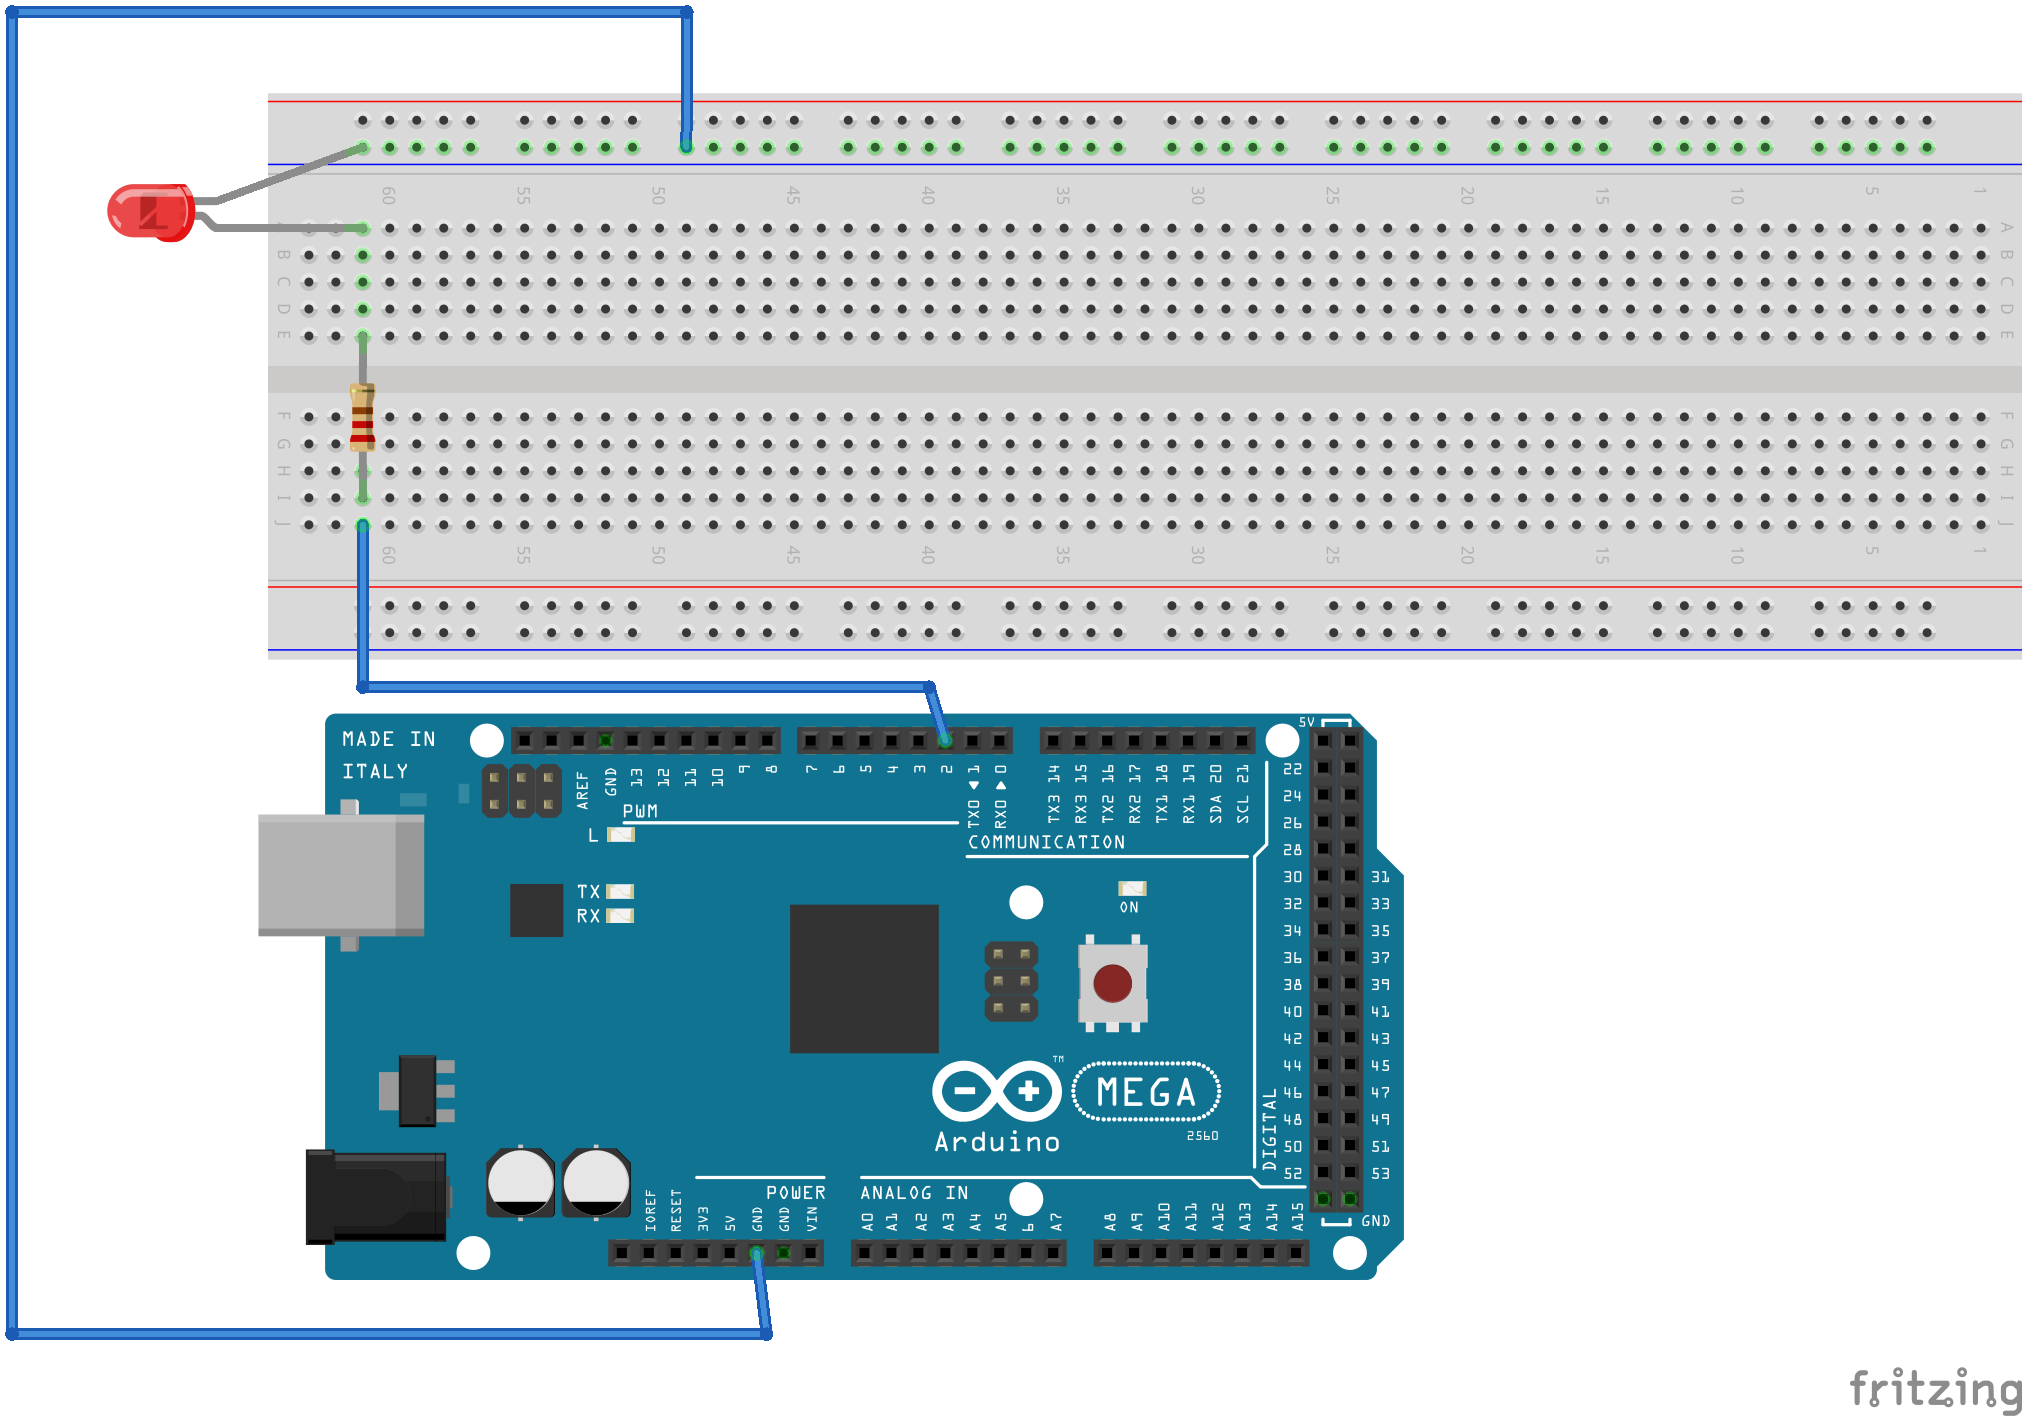
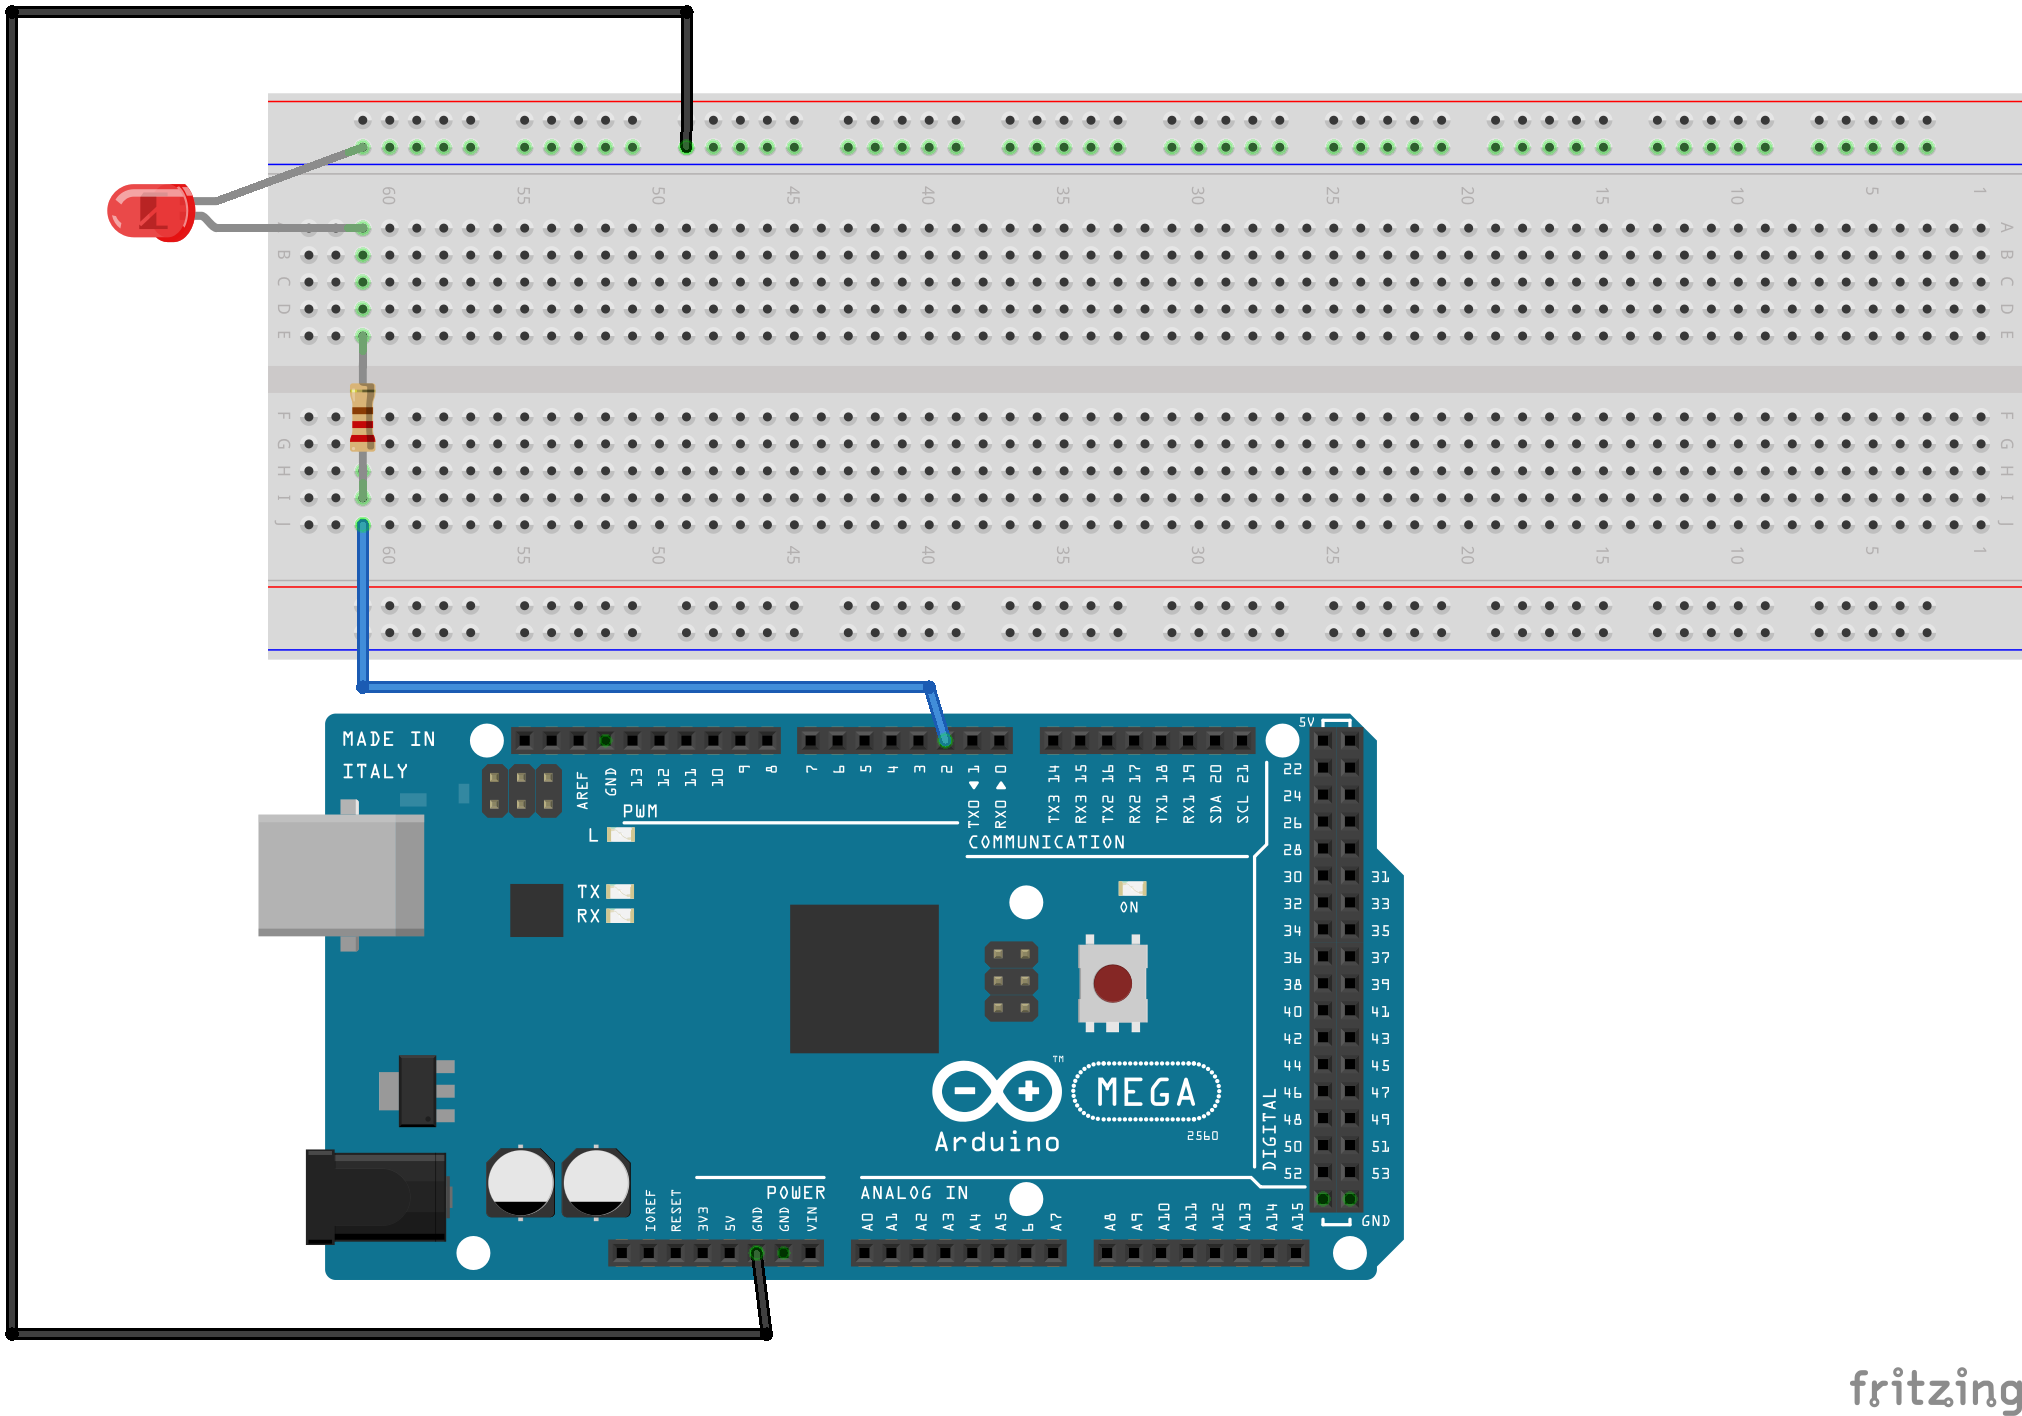
{en, ru}: dialogues-with-computer-breadboard: Fix an error
* images/schematics/001-led.fzz: Change the color of the wire that goes to the
GND pin.
* images/schematics/001-led.png: Update.
* src/en/sections/dialogues-with-computer-breadboard.tex:,
src/ru/sections/dialogues-with-computer-breadboard.tex: Fix an error introduced
in 94aa62a0b55c108ff3852f5cc2822eaa738bd607.  Improve the section.

Changed region(s): [[0.0, 0.0, 0.405, 0.9633]]

diff --git a/src/ru/sections/dialogues-with-computer-breadboard.tex b/src/ru/sections/dialogues-with-computer-breadboard.tex
@@ -13,14 +13,16 @@
 \begin{figure}[ht]
   \centering
   \includegraphics[width=12cm]{schematics/001-led}
-  \caption{Пример подключения светодиода к Arduino Mega 2560 через макетную
-    плату.}
+  \caption{Пример подключения светодиода на цифровой порт Arduino Mega 2560
+    через макетную плату.}
   \label{fig:breadboard-led}
 \end{figure}
 
 \begin{itemize}
-\item Черный провод подключен к Arduino и идёт на вывод ``GND'' (минус.)
-\item Синий провод подключен к Arduino и идёт на вывод ``5V'' (плюс.)
+\item Черный провод подключает минусовой контакт светодиода (катода) на вывод
+  ``GND'' Arduino.
+\item Синий провод подключает плюсовой контакт светодиода (анод) через резистор
+  на цифровой порт номер 2 на Arduino.
 \end{itemize}
 
 \note{ Обратите внимание, что светодиоды (и некоторые другие элементы)
@@ -29,9 +31,14 @@
   цепи, тем самым защищая электронные компоненты от преждевременного выхода из
   строя. }
 
-В примере на рис. \ref{fig:breadboard-led} светодиод включится и будет постоянно
-гореть, как только мы подадим питание на Arduino, так как плюсовой контакт
-светодиода (анод) постоянно подаётся 5 Вольт.
+В примере на рис. \ref{fig:breadboard-led} светодиод включится только тогда,
+когда на цифровом порту 2 будет достаточное напряжение.  Изначально же на
+цифровом порту будет 0 Вольт, и поскольку нет разности потециалов между цифровым
+портом и \texttt{GND}, то электрический ток идти не будет.
+
+Таким образом, чтобы зажечь светодиод, мы должны подключить плату Arduino нашей
+схемой к компьютеру, написать программу и загрузить её в Arduino.  Все эти этапы
+мы рассмотрим в последующих разделах.
 
 %%%%%%%%%%%%%%%%%%%%%%%%%%%%%%%%%%%%%%%%%%%%%%%%%%%%%%%%%%%%%%%%%%%%%%%%%%%%%%%%
 \section{Подключение Arduino к компьютеру}
@@ -45,12 +52,5 @@
 этого нужно войти в панель ``Инструменты'' затем ``Плата'' -- в этом меню
 необходимо выбрать вариант Arduino, с которой вы сейчас работаете, затем в
 подменю ``Порт'' небходимо выбрать порт, к которому подключена Arduino.
-
-\experiment{1}{Давайте попробуем переподключить плюсовой контакт светодиода на
-  землю (\texttt{GND}.)  Светодиод должен погаснуть.  Почему?}
-
-\experiment{1}{Теперь поменяем резистор в схеме на резистор с большим
-  сопротивлением (например, 500 Ом.)  Как и почему изменилась яркость
-  светодиода?}
 
 \end{document}

diff --git a/src/en/sections/dialogues-with-computer-breadboard.tex b/src/en/sections/dialogues-with-computer-breadboard.tex
@@ -22,8 +22,10 @@ them in the desired circuit (see fig. \ref{fig:breadboard-led}.)
 \end{figure}
 
 \begin{itemize}
-\item The black wire is connected to the Arduino GND pin.
-\item The blue wire is connected to the Arduino 5V pin.
+\item The black wire connects the negative pin of the LED (cathode) to the
+  Arduino GND pin.
+\item The blue wire connects the positive pin of the LED (anode) to the digital
+  pin number 2 on the Arduino.
 \end{itemize}
 
 \note{ Note that LEDs and some other components are usually connected to an
@@ -31,10 +33,16 @@ them in the desired circuit (see fig. \ref{fig:breadboard-led}.)
   \ref{section:electronics-resistance} a resistor allows us to limit the current
   in a circuit thus protecting electronic components from premature failures. }
 
-In the example on fig. \ref{fig:breadboard-led} the LED will turn on an stay
-that way as soon as we power up the Arduino, as the positive pin of the LED is
-always connected to 5V.
+In the example on fig. \ref{fig:breadboard-led} the LED will turn on oonly when
+the digital pin 2 will have enough voltage.  The default value for the digital
+pin number 2 is zero Volts, so there will be no electric current as there's no
+potential difference between the digital port and \texttt{GND} pin.
 
+Thus to turn on the LED we have to connect the Arduino with the our circuit to
+the computer, then we have to write a program for it and upload the program to
+the Arduino.  All those steps will be discussed in the following sections.
+
+%%%%%%%%%%%%%%%%%%%%%%%%%%%%%%%%%%%%%%%%%%%%%%%%%%%%%%%%%%%%%%%%%%%%%%%%%%%%%%%%
 \section{Connecting an Arduino to a Computer}
 To connect an Arduino board to a computer you'll need the board itself (in most
 of our examples we will use Arduino Mega 2560) and a USB-B standard cable.
@@ -47,12 +55,5 @@ the Arduino board.  To do that we need to open ``Tools'' in the window menu and
 there open ``Boards'' sub-menu -- here we need to select the Arduino board model
 that you're using right now.  Then we need to open ``Tools'' again and in
 ``Port'' sub-menu select the serial port to which your Arduino is connected.
-
-\experiment{1}{Let's try to connect the positive contact of the LED (anode) to
-  the ground (\texttt{GND}.  The LED should switch off.  Why?}
-
-\experiment{1}{Now let's replace the resistor in our circuit with another one
-  with greater resistance (say, 500Ohm.)  How and why the LED brightness
-  changed?}
 
 \end{document}
